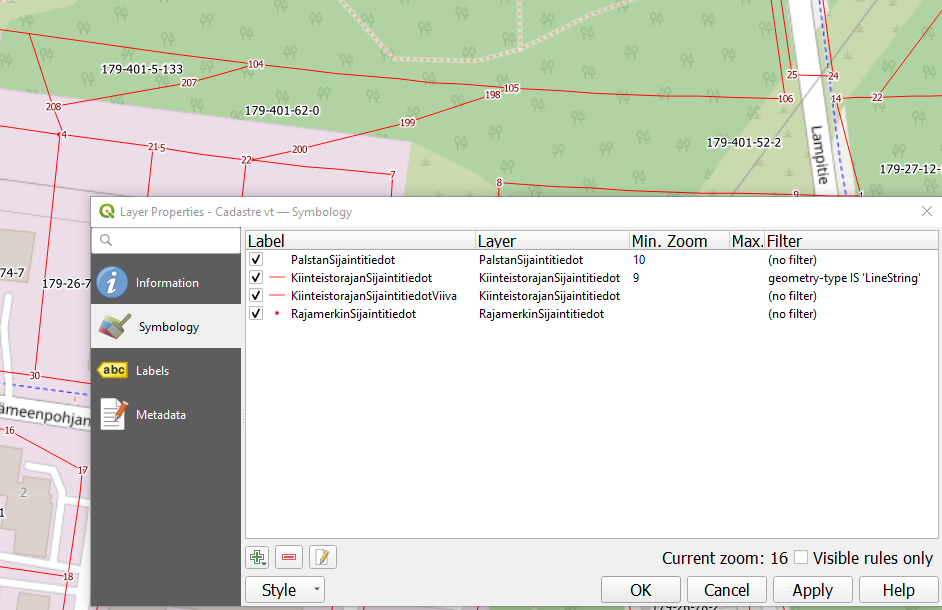
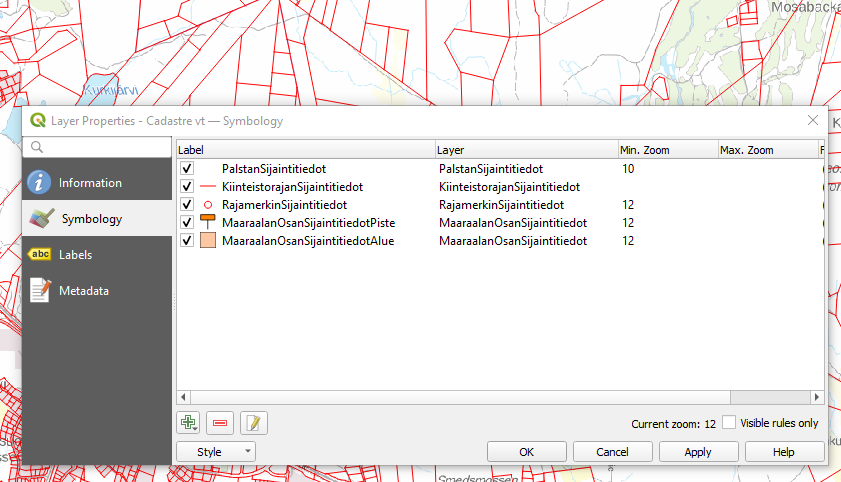
typo, qgis style fix

diff --git a/kipa/kiinteistojaotus-qgis-beta1/vectortiles/kiinteistojaotus_qgis.qml b/kipa/kiinteistojaotus-qgis-beta1/vectortiles/kiinteistojaotus_qgis.qml
@@ -38,43 +38,7 @@
           </symbol>
         </symbols>
       </style>
-      <style layer="KiinteistorajanSijaintitiedot" max-zoom="-1" min-zoom="9" enabled="1" name="KiinteistorajanSijaintitiedot" geometry="1" expression="geometry-type IS 'LineString'">
-        <symbols>
-          <symbol alpha="1" clip_to_extent="1" force_rhr="0" type="line" name="0">
-            <layer locked="0" enabled="1" pass="0" class="SimpleLine">
-              <prop k="align_dash_pattern" v="0"/>
-              <prop k="capstyle" v="flat"/>
-              <prop k="customdash" v="5;2"/>
-              <prop k="customdash_map_unit_scale" v="3x:0,0,0,0,0,0"/>
-              <prop k="customdash_unit" v="MM"/>
-              <prop k="dash_pattern_offset" v="0"/>
-              <prop k="dash_pattern_offset_map_unit_scale" v="3x:0,0,0,0,0,0"/>
-              <prop k="dash_pattern_offset_unit" v="MM"/>
-              <prop k="draw_inside_polygon" v="0"/>
-              <prop k="joinstyle" v="miter"/>
-              <prop k="line_color" v="255,0,0,255"/>
-              <prop k="line_style" v="solid"/>
-              <prop k="line_width" v="0.264583"/>
-              <prop k="line_width_unit" v="MM"/>
-              <prop k="offset" v="0"/>
-              <prop k="offset_map_unit_scale" v="3x:0,0,0,0,0,0"/>
-              <prop k="offset_unit" v="MM"/>
-              <prop k="ring_filter" v="0"/>
-              <prop k="tweak_dash_pattern_on_corners" v="0"/>
-              <prop k="use_custom_dash" v="0"/>
-              <prop k="width_map_unit_scale" v="3x:0,0,0,0,0,0"/>
-              <data_defined_properties>
-                <Option type="Map">
-                  <Option type="QString" value="" name="name"/>
-                  <Option name="properties"/>
-                  <Option type="QString" value="collection" name="type"/>
-                </Option>
-              </data_defined_properties>
-            </layer>
-          </symbol>
-        </symbols>
-      </style>
-      <style layer="KiinteistorajanSijaintitiedot" max-zoom="-1" min-zoom="-1" enabled="1" name="KiinteistorajanSijaintitiedotViiva" geometry="1" expression="">
+      <style layer="KiinteistorajanSijaintitiedot" max-zoom="-1" min-zoom="-1" enabled="1" name="KiinteistorajanSijaintitiedot" geometry="1" expression="">
         <symbols>
           <symbol alpha="1" clip_to_extent="1" force_rhr="0" type="line" name="0">
             <layer locked="0" enabled="1" pass="0" class="SimpleLine">
@@ -110,7 +74,7 @@
           </symbol>
         </symbols>
       </style>
-      <style layer="RajamerkinSijaintitiedot" max-zoom="-1" min-zoom="12" enabled="1" name="RajamerkinSijaintitiedot22" geometry="0" expression="">
+      <style layer="RajamerkinSijaintitiedot" max-zoom="-1" min-zoom="12" enabled="1" name="RajamerkinSijaintitiedot" geometry="0" expression="">
         <symbols>
           <symbol alpha="1" clip_to_extent="1" force_rhr="0" type="marker" name="0">
             <layer locked="0" enabled="1" pass="0" class="SimpleMarker">
@@ -143,7 +107,7 @@
           </symbol>
         </symbols>
       </style>
-      <style layer="MaaraalanOsanSijaintitiedot" max-zoom="-1" min-zoom="12" enabled="1" name="MaaraalanOsanSijaintitiedot_point" geometry="0" expression="">
+      <style layer="MaaraalanOsanSijaintitiedot" max-zoom="-1" min-zoom="12" enabled="1" name="MaaraalanOsanSijaintitiedotPiste" geometry="0" expression="">
         <symbols>
           <symbol alpha="1" clip_to_extent="1" force_rhr="0" type="marker" name="0">
             <layer locked="0" enabled="1" pass="0" class="SvgMarker">
@@ -175,7 +139,7 @@
           </symbol>
         </symbols>
       </style>
-      <style layer="MaaraalanOsanSijaintitiedot" max-zoom="-1" min-zoom="12" enabled="1" name="MaaraalanOsanSijaintitiedot" geometry="2" expression="">
+      <style layer="MaaraalanOsanSijaintitiedot" max-zoom="-1" min-zoom="12" enabled="1" name="MaaraalanOsanSijaintitiedotAlue" geometry="2" expression="">
         <symbols>
           <symbol alpha="1" clip_to_extent="1" force_rhr="0" type="fill" name="0">
             <layer locked="0" enabled="1" pass="0" class="SimpleFill">
